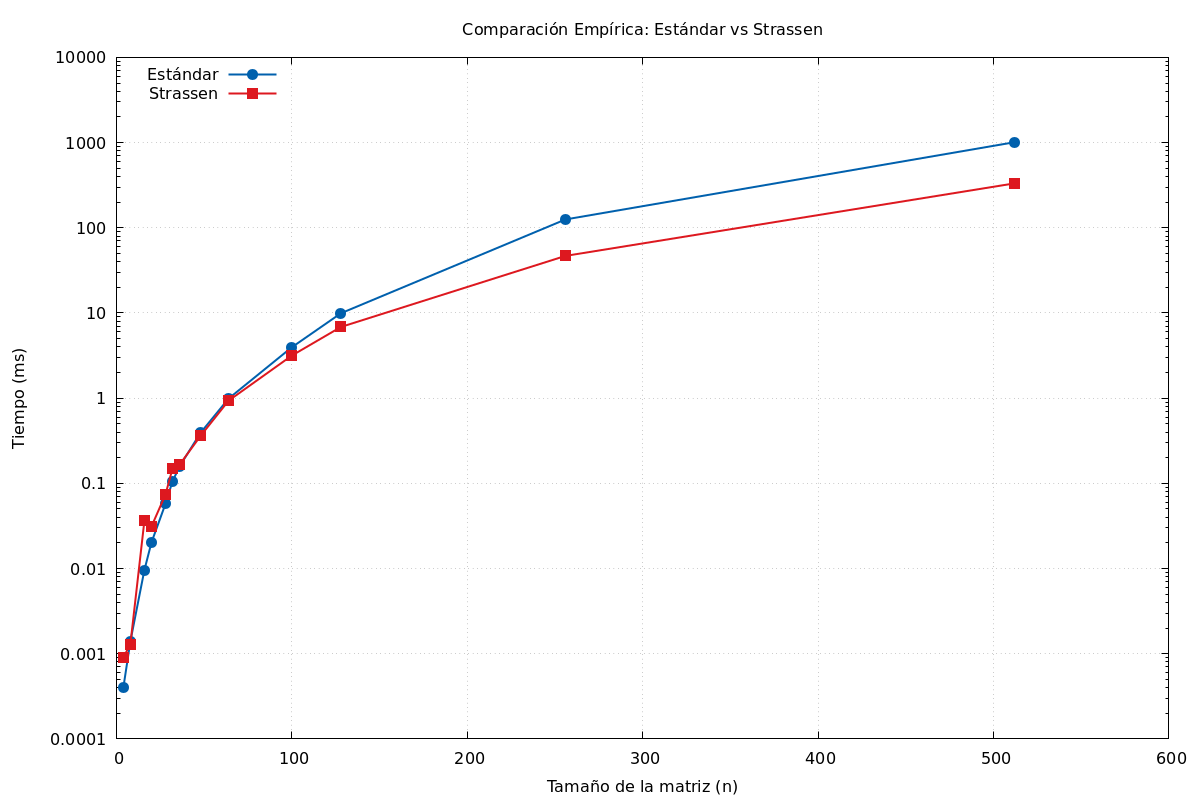
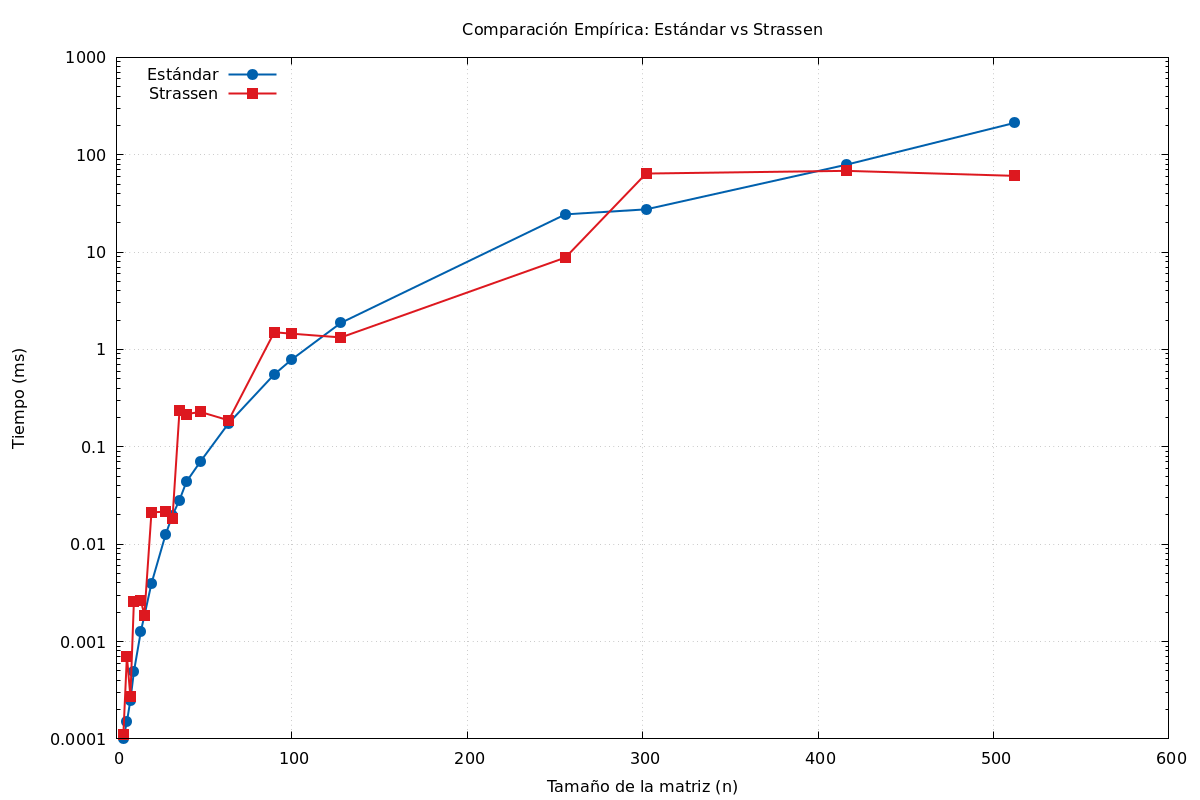
Arreglo Strassen y implementación padding para cualquier tamaño

diff --git a/matrix_str.cpp b/matrix_str.cpp
@@ -8,10 +8,14 @@ void add(const Matrix& A, const Matrix& B, Matrix& C, int n) {
 void subtract(const Matrix& A, const Matrix& B, Matrix& C, int n) {
     for (int i = 0; i < n * n; i++) C[i] = A[i] - B[i];
 }
-
+int next_power_of_2(int n) {
+    int p = 1;
+    while (p < n) p *= 2;
+    return p;
+}
 void multiply_strassen(const Matrix& A, const Matrix& B, Matrix& C, int n) {
     //Umbral empírico
-    if (n <= 15) {
+    if (n <= 32) {
         multiply_std(A, B, C, n);
         return;
     }
@@ -75,7 +79,39 @@ void multiply_strassen(const Matrix& A, const Matrix& B, Matrix& C, int n) {
             // C21
             C[(i + k) * n + j] = p3[idx] + p4[idx];
             // C22
-            C[(i + k) * n + (j + k)] = p5[idx] + p1[idx] - p3[idx] - p7[idx];
+            C[(i + k) * n + (j + k)] = p5[idx] + p1[idx] - p3[idx] + p7[idx];
+        }
+    }
+}
+void multiply_strassen_any_size(const Matrix& A, const Matrix& B, Matrix& C, int n) {
+    // Ya es potencia de 2?
+    int m = next_power_of_2(n);
+    
+    if (m == n) {
+        multiply_strassen(A, B, C, n);
+        return;
+    }
+
+    // Padding con ceros
+    Matrix A_padded(m * m, 0.0);
+    Matrix B_padded(m * m, 0.0);
+    Matrix C_padded(m * m, 0.0);
+
+    // Copiar 
+    for (int i = 0; i < n; i++) {
+        for (int j = 0; j < n; j++) {
+            A_padded[i * m + j] = A[i * n + j];
+            B_padded[i * m + j] = B[i * n + j];
+        }
+    }
+
+    // Ejecutar Strassen
+    multiply_strassen(A_padded, B_padded, C_padded, m);
+
+    // Copiar el resultado de vuelta a la matriz C original (recortar)
+    for (int i = 0; i < n; i++) {
+        for (int j = 0; j < n; j++) {
+            C[i * n + j] = C_padded[i * m + j];
         }
     }
 }

diff --git a/main.cpp b/main.cpp
@@ -27,8 +27,8 @@ bool verify(const Matrix& A, const Matrix& B, int n) {
 }
 
 int main() {
-    std::vector<int> sizes = {4, 8, 16, 20, 28, 32, 36, 48, 64, 100, 128, 256, 512};
-    int repetitions = 5;
+    std::vector<int> sizes = {4, 6, 8, 10, 14, 16, 20, 28, 32, 36, 40, 48, 64, 90, 100, 128, 256, 302, 416, 512};
+    int repetitions = 10;
 
     //Dirigir datos
     std::ofstream csv_file("resultados.csv");
@@ -57,7 +57,7 @@ int main() {
 
 			//Medida strassen
 			start = std::chrono::high_resolution_clock::now();
-    		multiply_strassen(A, B, C_str, n);
+    		multiply_strassen_any_size(A, B, C_str, n);
     		end = std::chrono::high_resolution_clock::now();
     		std::chrono::duration<double, std::milli> t_str = end - start;
 			total_time_str += t_str.count();

diff --git a/matrix_ops.hpp b/matrix_ops.hpp
@@ -7,4 +7,6 @@ using Matrix = std::vector<double>;
 
 void multiply_std(const Matrix& A, const Matrix& B, Matrix& C, int n);
 void multiply_strassen(const Matrix& A, const Matrix& B, Matrix& C, int n);
+void multiply_strassen_any_size(const Matrix& A, const Matrix& B, Matrix& C, int n);
+
 #endif